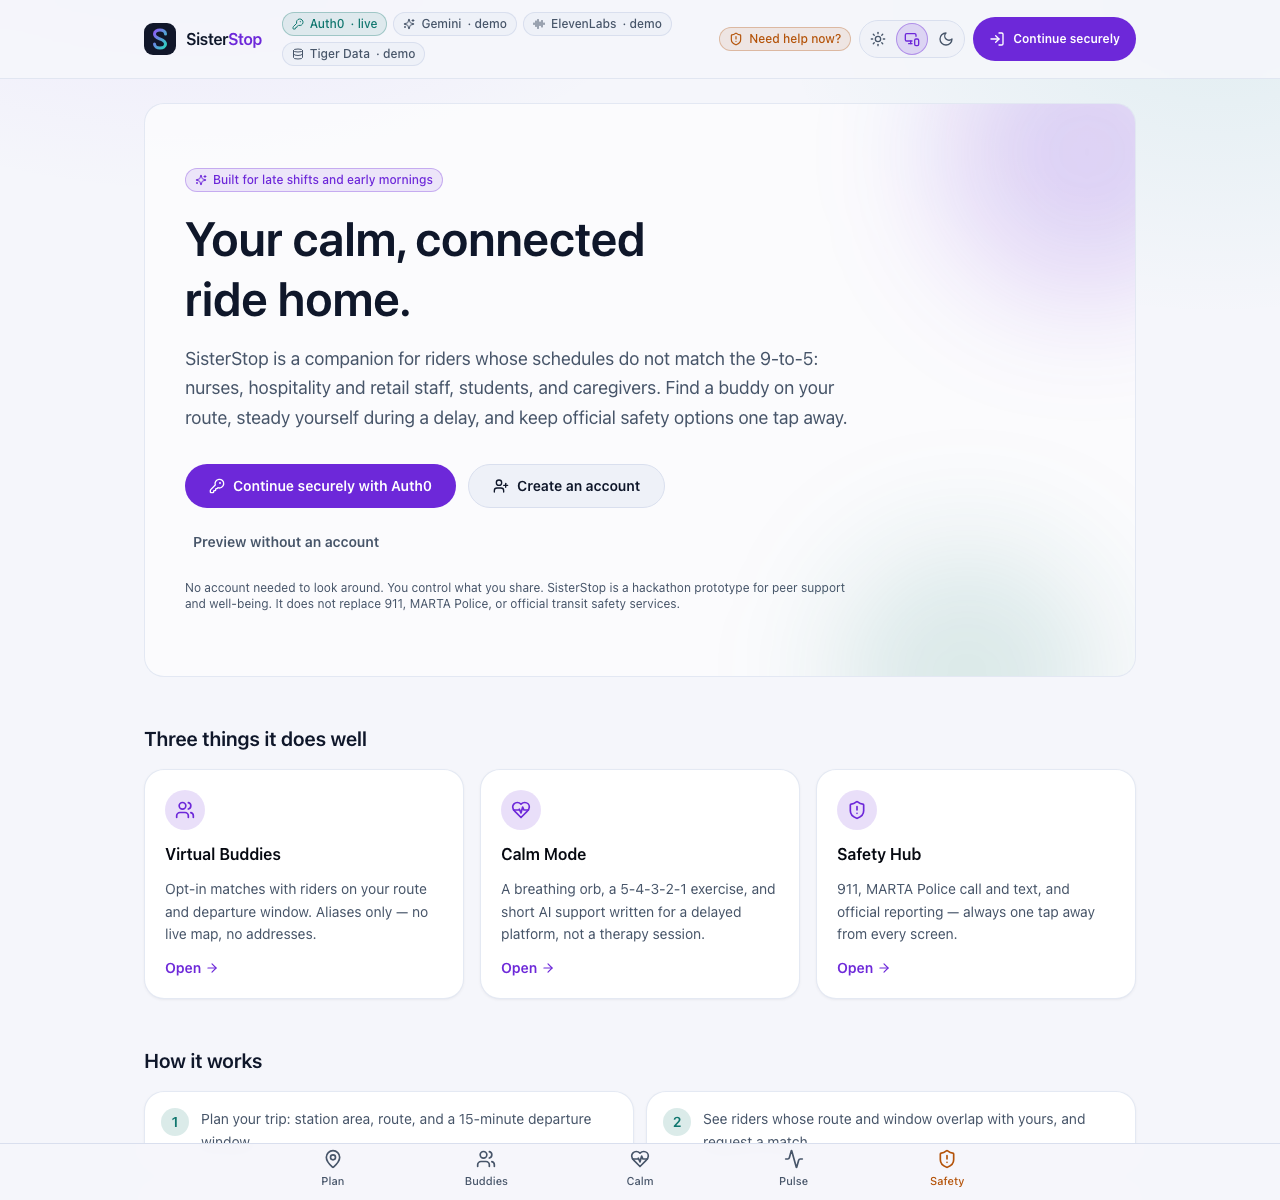
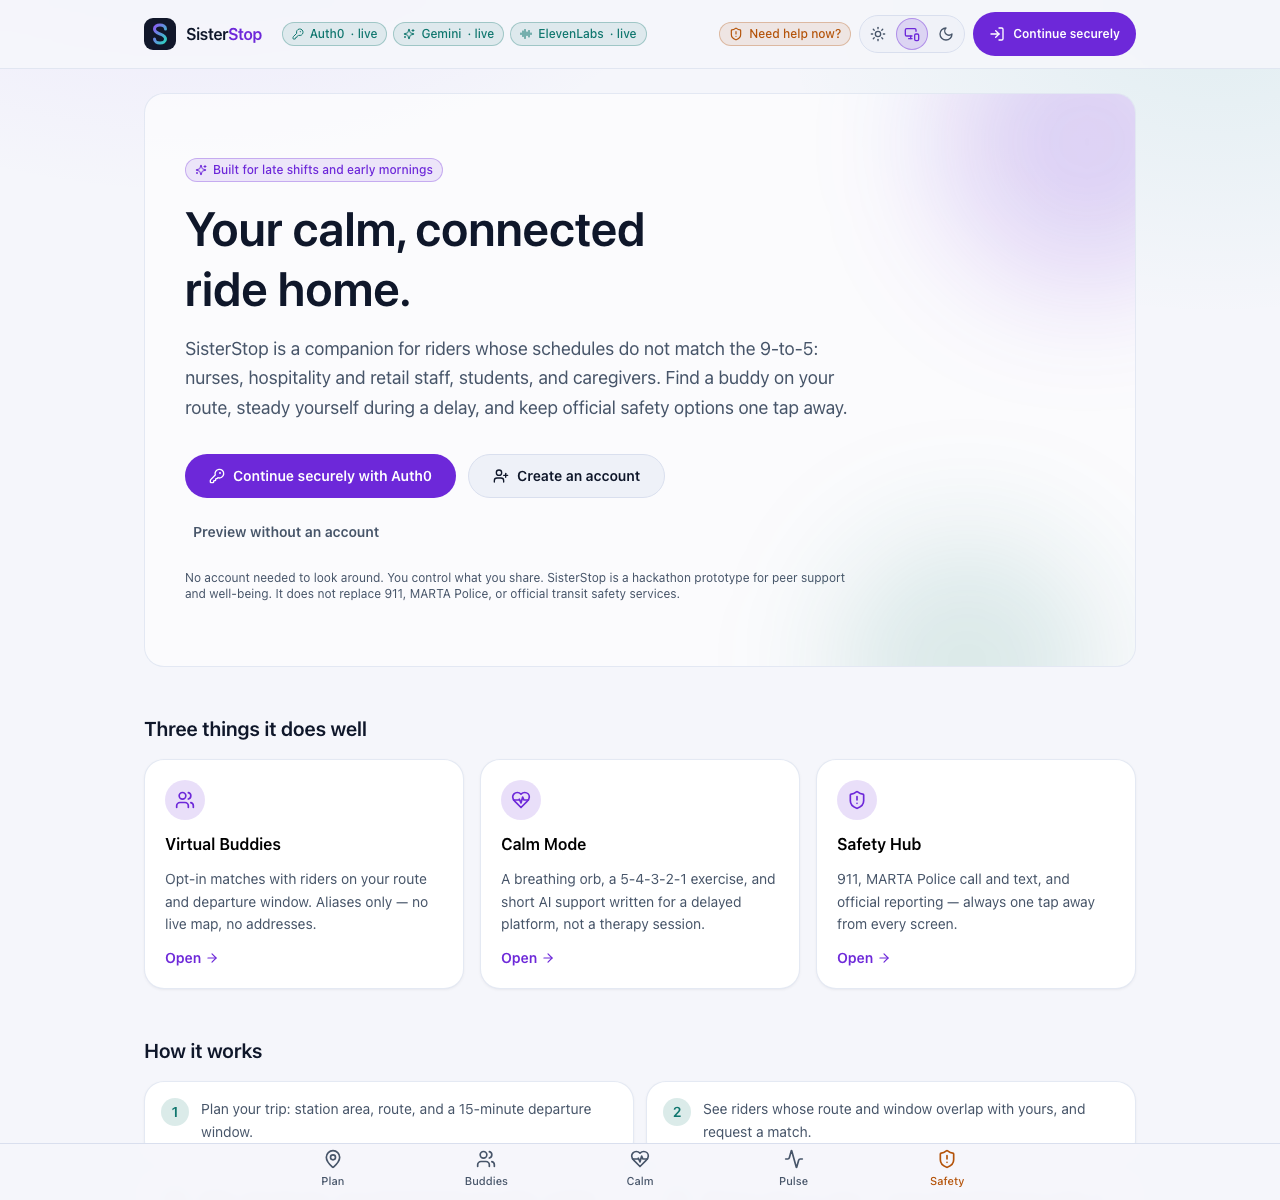
chore(header): hide the Tiger Data chip until the database is connected
A chip that permanently reads "demo" looks like an unfinished integration
rather than an honest status. Auth0, Gemini, and ElevenLabs are all live, and
the three now fit on one row instead of wrapping.

Nothing else changes: /pulse still labels its own data source, the health
endpoint still reports tigerData, and restoring the chip is one line (noted in
the component).

diff --git a/src/components/IntegrationStatus.tsx b/src/components/IntegrationStatus.tsx
@@ -1,4 +1,4 @@
-import { Sparkles, AudioLines, Database, KeyRound } from "lucide-react";
+import { Sparkles, AudioLines, KeyRound } from "lucide-react";
 import { useIntegrationStatus } from "../hooks/useIntegrationStatus";
 import { useSession } from "../hooks/useSession";
 import { cn } from "../lib/utils";
@@ -11,11 +11,15 @@ const IntegrationStatus = ({ className }: { className?: string }) => {
   const { integrations, checked } = useIntegrationStatus();
   const { auth0Configured } = useSession();
 
+  // Tiger Data is hidden here until the database is actually connected — a
+  // permanent "demo" chip reads as an unfinished integration rather than an
+  // honest one. Community Pulse still labels its own data source on /pulse.
+  // To restore: add { label: "Tiger Data", live: integrations.tigerData,
+  // icon: Database } and re-import Database from lucide-react.
   const items = [
     { label: "Auth0", live: auth0Configured, icon: KeyRound },
     { label: "Gemini", live: integrations.gemini, icon: Sparkles },
     { label: "ElevenLabs", live: integrations.elevenlabs, icon: AudioLines },
-    { label: "Tiger Data", live: integrations.tigerData, icon: Database },
   ];
 
   return (
